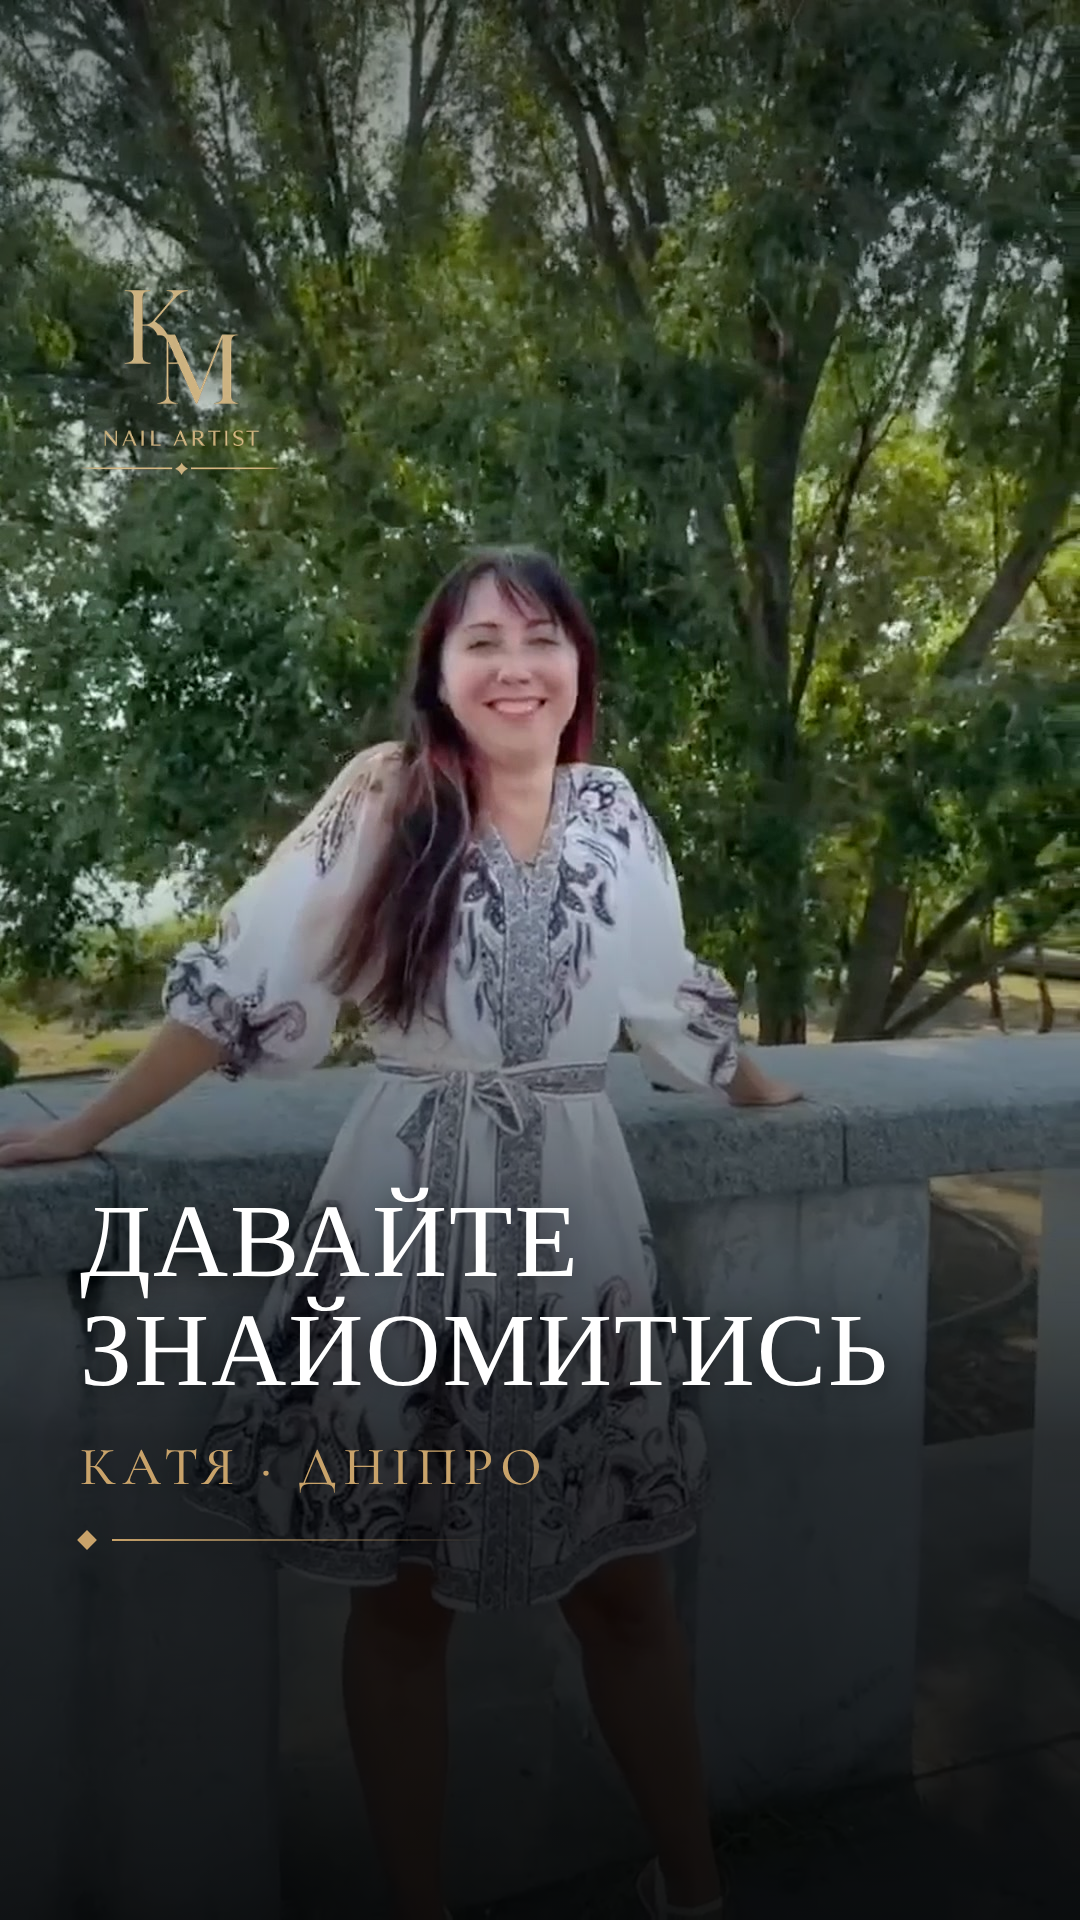
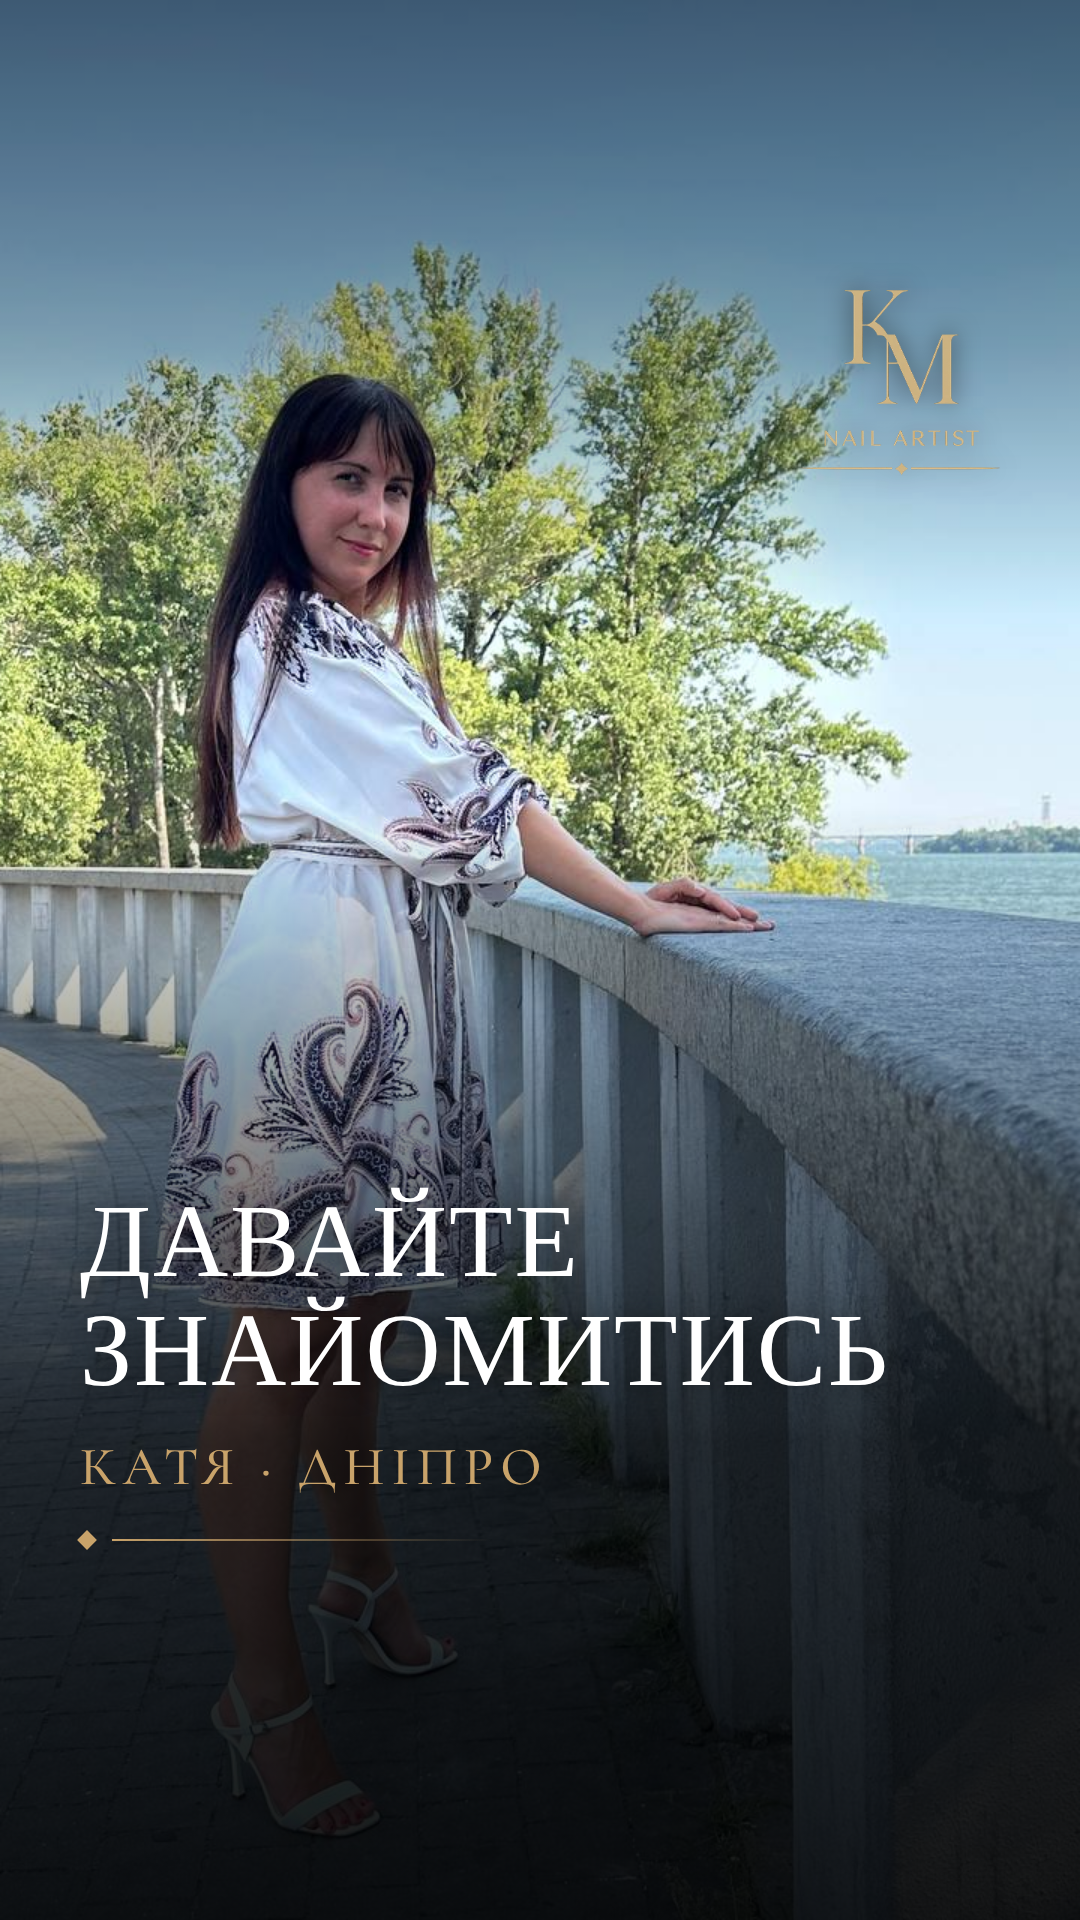
Intro Reels: covers from the photo shoot (railing and grass)
Claude-Session: https://claude.ai/code/session_01YBhnYy5PA8K7Ga4B89nYdp

diff --git a/intro-katya/src/Cover.tsx b/intro-katya/src/Cover.tsx
@@ -11,11 +11,15 @@ const GOLD = "#c9a36a";
 const LEFT = 80;
 
 // Reels cover laid out like the cat-eye cover: logo top left, big title, gold line with a diamond
-export const Cover: React.FC = () => (
+export const Cover: React.FC<{ src: string; position?: string; logoRight?: boolean }> = ({
+  src,
+  position = "50% 50%",
+  logoRight = false,
+}) => (
   <AbsoluteFill style={{ backgroundColor: "black" }}>
     <Img
-      src={staticFile("cover-frame.jpg")}
-      style={{ width: "100%", height: "100%", objectFit: "cover" }}
+      src={staticFile(src)}
+      style={{ width: "100%", height: "100%", objectFit: "cover", objectPosition: position }}
     />
     <AbsoluteFill
       style={{
@@ -26,14 +30,14 @@ export const Cover: React.FC = () => (
     <AbsoluteFill
       style={{
         background:
-          "linear-gradient(180deg, rgba(0,0,0,0.45) 0%, rgba(0,0,0,0.15) 22%, rgba(0,0,0,0) 32%)",
+          "linear-gradient(180deg, rgba(0,0,0,0.55) 0%, rgba(0,0,0,0.3) 18%, rgba(0,0,0,0) 32%)",
       }}
     />
     <Img
       src={staticFile("logo-full.png")}
       style={{
         position: "absolute",
-        left: LEFT,
+        ...(logoRight ? { right: LEFT } : { left: LEFT }),
         top: 290,
         width: 200,
         filter: "drop-shadow(0 0 12px rgba(0,0,0,0.6))",
@@ -90,5 +94,21 @@ export const Cover: React.FC = () => (
 );
 
 export const CoverStill = () => (
-  <Still id="Cover" component={Cover} width={1080} height={1920} />
+  <>
+    <Still
+      id="Cover"
+      component={Cover}
+      width={1080}
+      height={1920}
+      defaultProps={{ src: "photos/railing.jpg", position: "40% 50%", logoRight: true }}
+    />
+    <Still
+      id="CoverGrass"
+      component={Cover}
+      width={1080}
+      height={1920}
+      defaultProps={{ src: "photos/grass.jpg", position: "62% 50%" }}
+    />
+    <Still id="CoverVideoFrame" component={Cover} width={1080} height={1920} defaultProps={{ src: "cover-frame.jpg" }} />
+  </>
 );

diff --git a/intro-katya/README.md b/intro-katya/README.md
@@ -4,7 +4,8 @@
 Стиль сторінки: заголовки Cinzel, підписи Cormorant (без курсиву), золото `#c9a36a` і слонова кістка `#f2ece2`, знак KM у кутку, повний логотип у фіналі.
 
 - `out/intro-katya-reels.mp4` — готовий ролик (без звуку: трек додається в Instagram)
-- `out/intro-katya-cover.png` — обкладинка 1080×1920 (`npx remotion still Cover`), `out/intro-katya-cover-grid-3x4.png` — як вона виглядає в сітці профілю
+- `out/intro-katya-cover.png` — обкладинка 1080×1920 з фото біля перил (`npx remotion still Cover`), `out/intro-katya-cover-grass.png` — запасна, на траві (`CoverGrass`); `*-grid-3x4.png` — як вони виглядають у сітці профілю
+- `public/photos/` — фото для обкладинок
 - `source/original.mp4` — вихідне відео (720×1280, 53 с)
 - `scripts/grade.sh` — 1080×1920, легке шумозаглушення, світліші тіні, тепліша шкіра, різкість → `public/clean.mp4`
 - `src/Composition.tsx` — плани й титри (масив `SCENES`)
